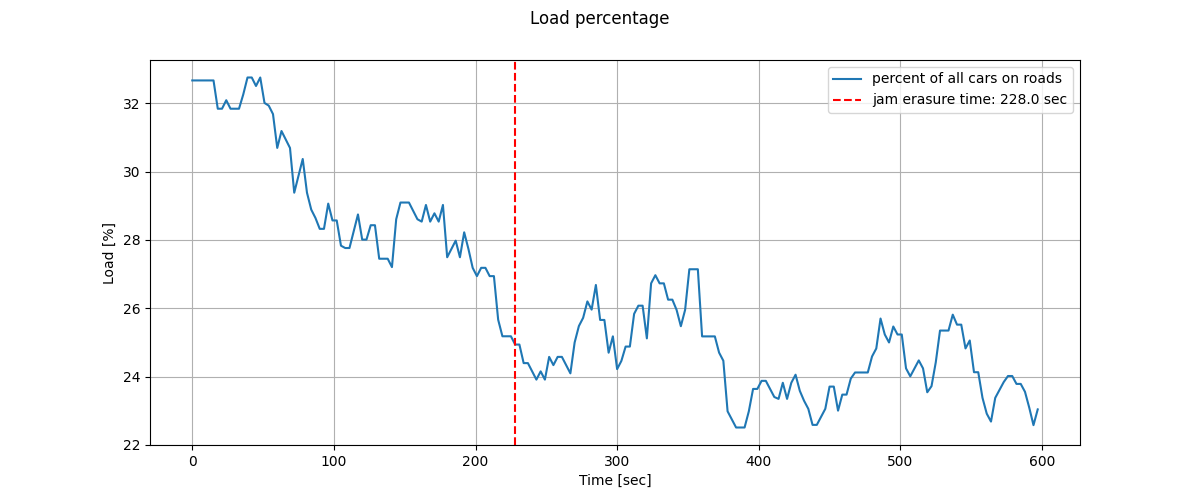
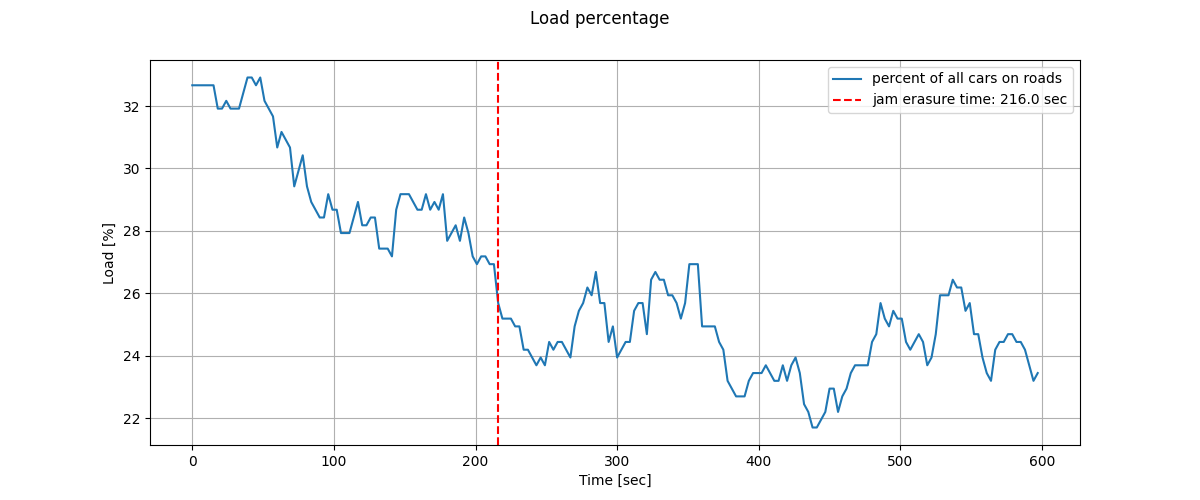
opt results not bad

diff --git a/lab8/src/post_processing.py b/lab8/src/post_processing.py
@@ -4,12 +4,12 @@ import matplotlib.pyplot as plt
 
 class PostProcessor:
     def __init__(
-        self, timestamps: np.ndarray, road_states: np.ndarray, threshold: float = 25
+        self, timestamps: np.ndarray, road_states: np.ndarray, attenuation: float = 0.8
     ) -> None:
         assert timestamps.shape[0] == road_states.shape[0]
         self.__times = timestamps.copy()
         self.__state = road_states.copy()
-        self.__threshold = threshold
+        self.__attenuation = attenuation
 
     def calculate_mean_load(self, en_plot: bool = False) -> np.ndarray:
         mean_data = np.round(np.mean(np.sum(self.__state, axis=2), axis=0), 1)
@@ -61,7 +61,8 @@ class PostProcessor:
             / np.sum(combined_states, axis=1)
         )
         indices = np.where(
-            initial_top_load_roads_percentage_evolution < self.__threshold
+            initial_top_load_roads_percentage_evolution
+            < (self.__attenuation * initial_top_load_roads_percentage_evolution[0])
         )[0]
         er_time = float(self.__times[-1])
         if len(indices) > 0:

diff --git a/lab8/src/run_optimization.py b/lab8/src/run_optimization.py
@@ -35,9 +35,14 @@ def rand_search_duration(
         )
         city_model.customize_nodes_traffic_lights(durations_s)
         time_vec, road_states = city_model.run_simulation()
-        post_proc = PostProcessor(time_vec, road_states, threshold=25)
+        post_proc = PostProcessor(time_vec, road_states, attenuation=0.90)
         t_erasure = post_proc.get_t_erasure(en_plot=False)
         if t_erasure < min_t_erasure:
             min_t_erasure = t_erasure
             out_durations = durations_s
     return min_t_erasure, out_durations
+
+
+min_t_erasure, opt_durations = rand_search_duration(sim_params=sim_params, num_iter=10)
+print(min_t_erasure)
+print(opt_durations)

diff --git a/lab8/src/run_single_sim.py b/lab8/src/run_single_sim.py
@@ -8,7 +8,7 @@ seed(1)
 sim_params = SimParams(
     sim_duration=600,
     delta_t=3,
-    car_spawn_rate=6,
+    car_spawn_rate=600,
     car_route_length=25,
     num_initial_cars=400,
     en_city_plot=False,
@@ -17,6 +17,6 @@ city_model = City(nodes=SPB_CR, roads=SPB_ROADS, cars={}, sim_params=sim_params)
 
 time_vec, road_states = city_model.run_simulation()
 
-post_proc = PostProcessor(time_vec, road_states, threshold=25)
+post_proc = PostProcessor(time_vec, road_states, attenuation=0.80)
 t_erasure = post_proc.get_t_erasure(en_plot=True)
 post_proc.calculate_mean_load(en_plot=True)
